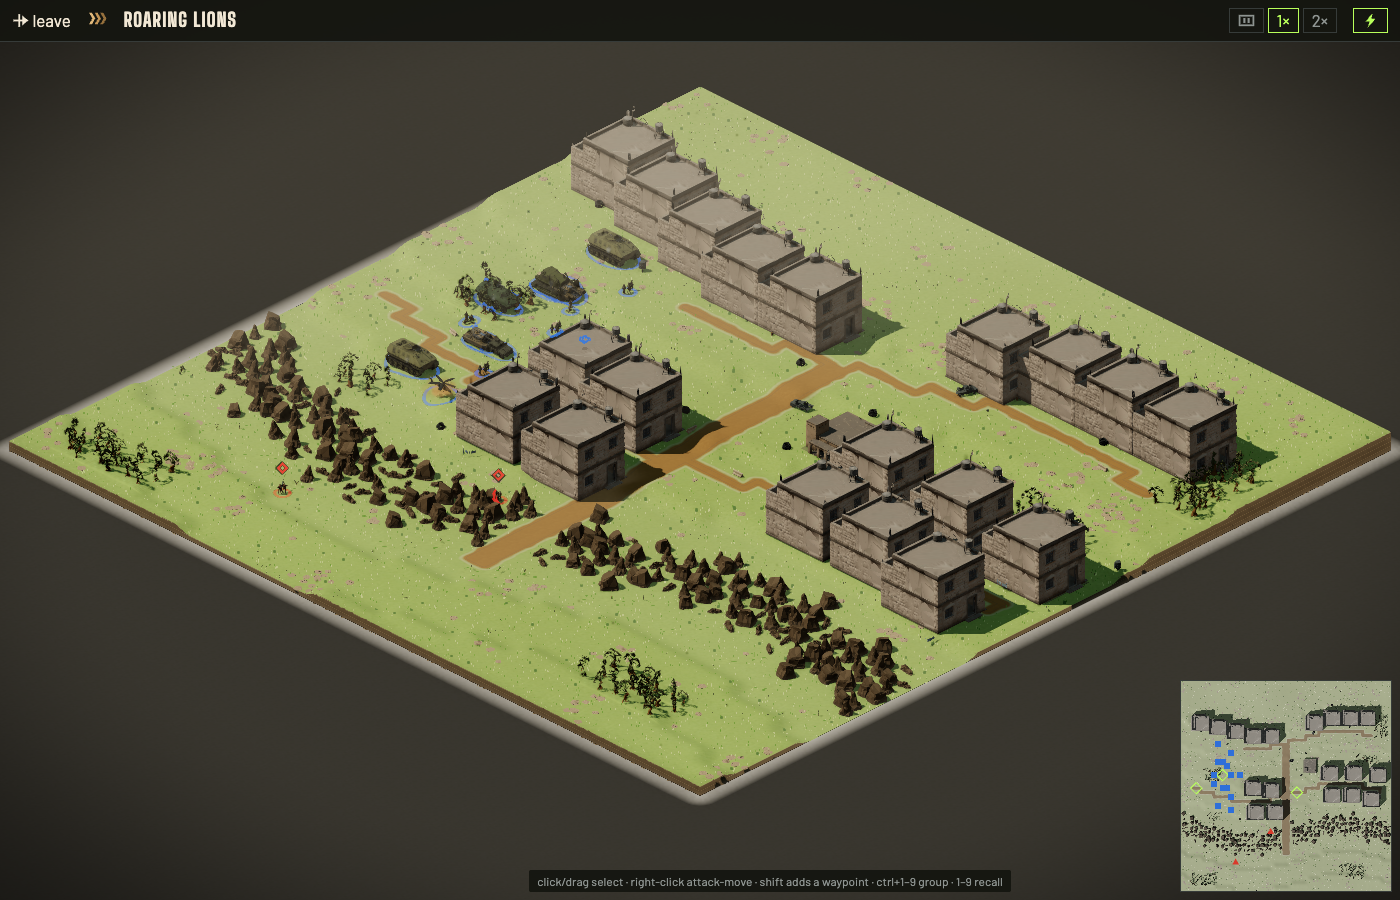
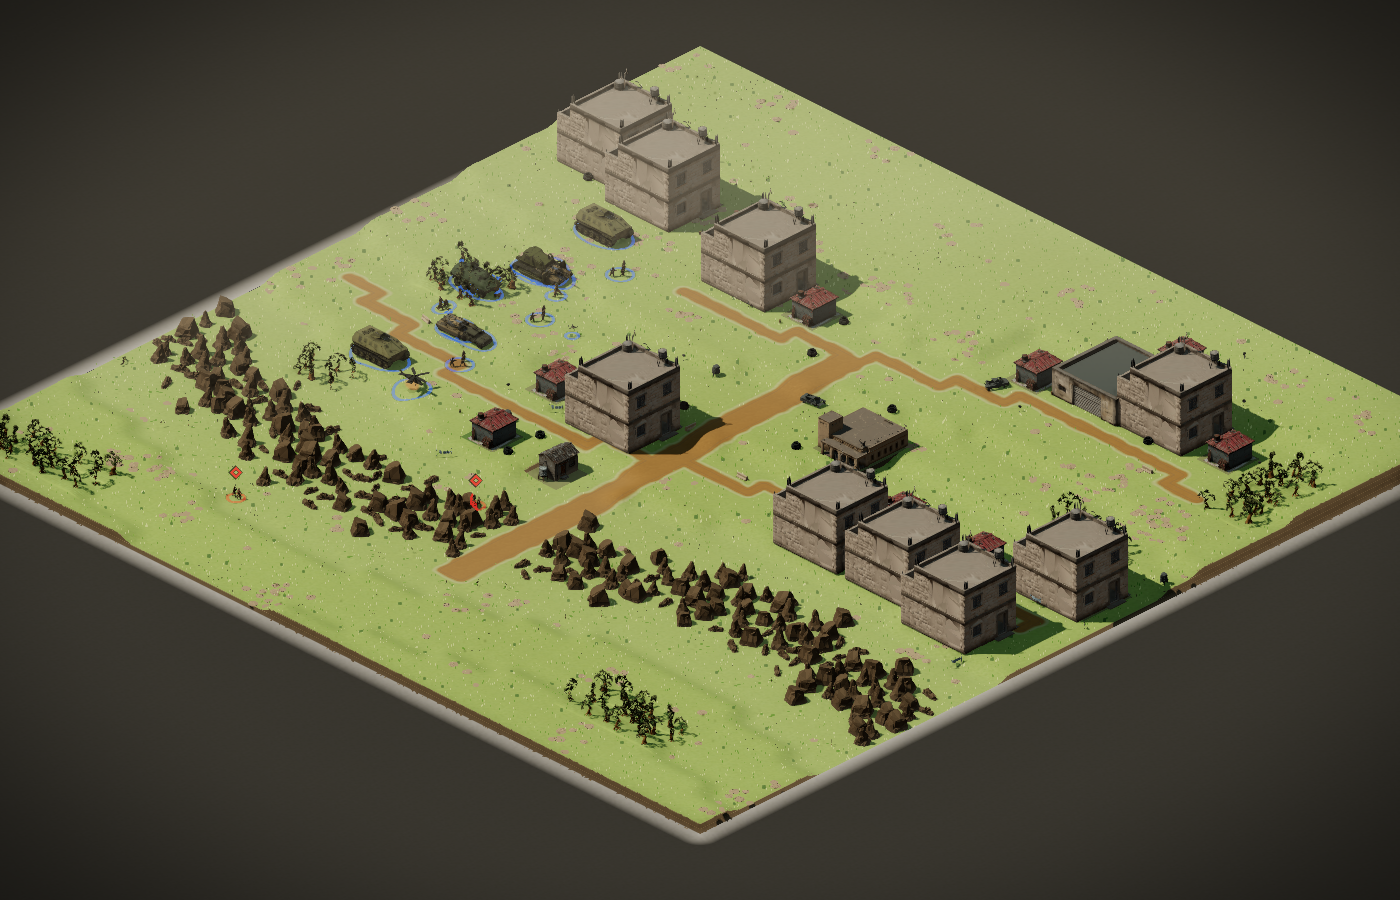
polish: write the keep-the-fight-visible rule into the campaign docs (GH-416)
docs/campaign/README.md: rule 10 and a short section; docs/campaign/ground-ladder.md §15:
the rule, the 84% floor and why, each building type's mesh plan, height and how far it
hides up-screen, four authoring rules, what changed, the exemptions, and the open lead
decision (fit meshes to footprints: a renderer what-if that alone takes beit_sahwan_3
from 45.7% to 80.3%).

Before/after sandbox overviews (fog off, zoom 0.5, map centre, ANGLE/Metal, music off):
docs/campaign/visibility/{before,after}/<map>.jpg for the four changed maps, and
docs/campaign/wadi_halam/maps/wadi_halam_4.png re-shot on the new ground.

diff --git a/docs/campaign/ground-ladder.md b/docs/campaign/ground-ladder.md
@@ -549,3 +549,82 @@ it says so.
 | 6 | `d` in Naharin | **Keep `d` out of Naharin.** Bunds (`1`) and the stony bed (`b`) only. (Coordinator's ruling, per the recommendation.) |
 | 7 | First arc | **Wadi Halam first**, then the §11 order. The Khan Rafid pilot alternative is dropped. |
 | 8 | Light rotation | **Lands first, as its own PR** (`data/light-rotation`): the 16 `time_of_day` edits in §10. |
+
+---
+
+## 15. Keep the fight visible (GH-416, 2026-10-07)
+
+The lead (6 Oct): *"Wadi Halam IV is too dense; I can't see the fight. Maps should be
+wide enough so the user can see the fight; most of it should not be eaten by a
+building."*
+
+**The rule.** On every campaign map, at least **84%** of the fight tiles must be visible
+to the default camera. Gated by `tools/src/map_visibility.test.ts`; the instrument is
+`tools/src/map_visibility.ts`, and `npx tsx tools/src/map_visibility.ts [--draw=<map>]`
+prints the table (and a map with `X` on every hidden fight tile).
+
+- **Fight tiles** are the passable tiles within 5 of an objective's target (its zone, its
+  marker, or the placements its tag names), plus a 3-wide corridor along every main
+  route: the foot flow-field path from `player_start` to each objective, and from each
+  wave's spawn to where it is sent.
+- **Hidden** means a building's drawn mesh covers more than half of a rifleman standing
+  on the tile, seen along `camera.ts`'s `VIEW_DIRECTION`. The camera is orthographic, so
+  zoom changes nothing. Ridges, decor and props do not count; the rule is about buildings.
+- **Why 84%.** Wadi Halam IV as the lead saw it read 74.1%, so the line is above that. On
+  `main` the maps split into a dense group at 45.7–80.6% and an open group at 87.3% and
+  up; 84% sits in the gap, and it is the one value that gives every map the same verdict
+  under all four settings of the instrument's free parameters that were tried (the full
+  argument is on `VISIBLE_FLOOR`).
+
+**The geometry an author has to know.** A building draws its GLB at the footprint's
+centre at a fixed size: the mesh is **not** fitted to the footprint. So a 1×1 or 2×2 `h`
+still draws a house 4.26 × 3.71 tiles in plan, and its walls stand in the lanes beside it.
+And it hides the ground **up-screen** of itself (towards smaller x and y, the north-west
+of the grid), never in front of it:
+
+| type | mesh plan (tiles) | height (world units) | hides up-screen, about |
+|---|---|---|---|
+| `a` apartment | 4.9 × 4.9 | 7.74 | 9 tiles |
+| `h` house | 4.3 × 3.7 | 4.24 | 5 tiles |
+| `y` relay | 1.5 × 1.5 | 3.33 | 3.5 tiles |
+| `#` concrete | 1.2 × 1.8 | 3.00 | 3 tiles |
+| `k` clinic | 3.4 × 4.7 | 2.23 | 2.5 tiles |
+| `m` hall | 2.8 × 3.2 | 1.52 | 1.5 tiles |
+| `w` warehouse, `s` shed, `p` pump house, `c` camp | 4.0 / 1.7 / 1.3 / 2.5 | 1.3–1.4 | 1.5 tiles |
+| `=` wall, `f` fence | 1 × 0.2 | under 0.6 | nothing |
+
+Which gives four authoring rules:
+
+1. **Streets go on the camera side of tall buildings** (south or east of them). A street
+   north or west of a row of houses lies in that row's shadow for five tiles.
+2. **Tall buildings are few, and they stand where their shadow falls on something that is
+   not a fight**: another building, a walled yard, the map edge. Low buildings (`s`, `w`,
+   `p`) are what a town is mostly made of.
+3. **Draw a footprint the size of its mesh.** A house wants about 4×4, a warehouse 4×4, a
+   shed 2×2. A smaller footprint does not make a smaller house; it makes a house standing
+   in the street.
+4. **Measure before the PR**, with the table above. Nothing here is visible by eye on a
+   48×48 grid.
+
+**What GH-416 changed** (same footprints, so every route and sight claim the doctrine
+tests pin is unchanged; difficulty re-measured over 12 seeds in the PR):
+
+| map | before | after | how |
+|---|---|---|---|
+| `wadi_halam_4` | 74.1% | 86.9% | the ten houses no cell holds became sheds, a barn and a pump house; the seven garrisoned houses stay where they were |
+| `khan_rafid` | 61.1% | 86.5% | the new quarter's two apartment blocks became warehouses (4×4 footprints, a 4×4 mesh), the ward's two flanking blocks and seven Old Town blocks became warehouses and sheds, and one house by the start a shed |
+| `khan_rafid_3` | 70.3% | 87.1% | the one-tile houses and two-tile apartments in the souk and the new quarter became sheds |
+| `deir_amun_3` | 73.9% | 87.3% | the south half of the hamlet came down to sheds; the two garrisoned houses stay |
+
+**Exempt, with a ratchet** (each may improve and may not get worse; the test goes red the
+day one clears the floor and asks for its entry to be deleted):
+
+- `beit_sahwan_3` (45.7%) — the old town at street scale is the map. Clearing the floor by
+  lowering buildings keeps 8 of its 39 houses and apartments: a lead decision, below.
+- `qarn_hadid_3`, `wadi_halam_5` (80.6% each) — follow-up.
+
+**Open for the lead.** Fitting each building mesh to its own footprint is a renderer change
+(presentation only; the sim never sees a mesh). Measured as a what-if
+(`npx tsx tools/src/map_visibility.ts --fit`), it alone takes `beit_sahwan_3` from 45.7% to
+80.3% and `khan_rafid` (as on `main`) from 61.1% to 80.6%, without touching a map. It would
+move the golden baselines and every town's look, so it is not done here.

diff --git a/docs/campaign/README.md b/docs/campaign/README.md
@@ -175,6 +175,21 @@ calling anything missing (see `docs/ASSET_PROVENANCE.md`).
    common nouns in the materiel register, screened and dated, issued in table order by a
    counter on the ledger. Never write a name into a mission, a line or a briefing; the
    player's units are named by the app, and a name the table does not hold does not exist.
+10. Maps keep the fight visible: 84% of the fight tiles in view of the default camera
+   (below, and `ground-ladder.md` §15). Measure it; do not judge it by eye.
+
+## Maps keep the fight visible
+
+A map is built so the player can see the fight (the lead, GH-416): at least **84%** of
+the passable tiles near its objectives and along its main routes must be visible to the
+default camera, with no building's mesh over more than half of a rifleman standing there.
+`tools/src/map_visibility.test.ts` gates every campaign map; a map under the floor needs a
+named exemption with a reason, and the exemption is a ratchet. Run
+`npx tsx tools/src/map_visibility.ts --draw=<map id>` while authoring: a building hides the
+ground up-screen of it (north-west on the grid), a house for about five tiles and an
+apartment for about nine, whatever its footprint, so streets go on the camera side of tall
+buildings and most of a town is low. The geometry and the four authoring rules are in
+`ground-ladder.md` §15.
 
 ## Verification for narrative content
 
